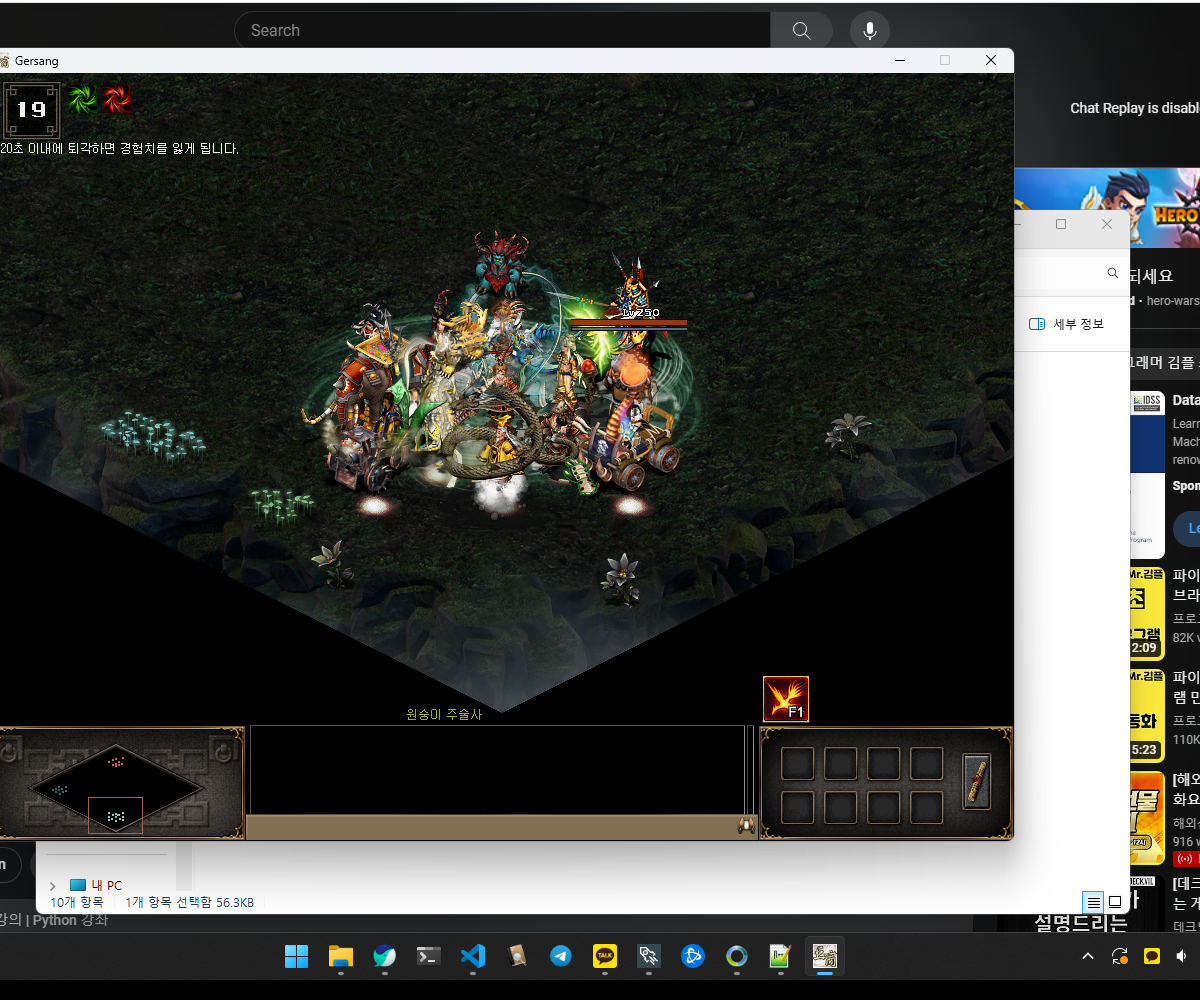
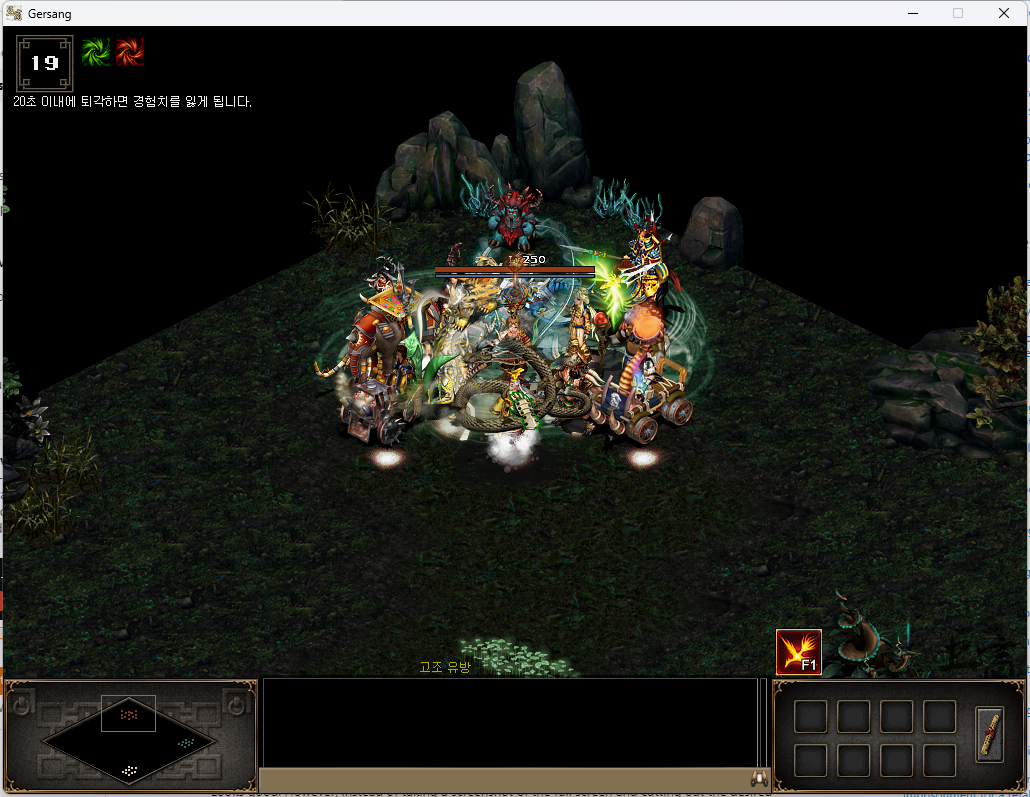
.

diff --git a/python_work/hunt.py b/python_work/hunt.py
@@ -68,6 +68,13 @@ def get_arrow_key():
     print("9_2 None")
 
   try:
+    button7location = pag.locateCenterOnScreen('python_work/img/dosa_sim_9_3.png', confidence=.93, grayscale=True)
+    print(f"9_3 : {button7location}")
+    return Key.right
+  except pag.ImageNotFoundException:
+    print("9_3 None")
+
+  try:
     button7location = pag.locateCenterOnScreen('python_work/img/dosa_sim_12.png', confidence=.93, grayscale=True)
     print(f"12 : {button7location}")
     return Key.down
@@ -80,6 +87,13 @@ def get_arrow_key():
     return Key.down
   except pag.ImageNotFoundException:
     print("12_2 None")
+
+  try:
+    button7location = pag.locateCenterOnScreen('python_work/img/dosa_sim_12_3.png', confidence=.93, grayscale=True)
+    print(f"12_3 : {button7location}")
+    return Key.down
+  except pag.ImageNotFoundException:
+    print("12_3 None")
 
   return None
 
@@ -105,15 +119,13 @@ def on_key_press(event):
 
   # q(허영): 8r  3r  2-rc  5-rc  6-rc  4-rc  `
   elif event.name == 'q':
-    pag.screenshot('python_work/1.png', region=(400,100, 1200, 1000))
+    pag.moveTo(game_window.left + game_window.width/2, game_window.top + game_window.height/2)
+    pag.screenshot('python_work/1.png', region=(game_window.left, game_window.top, game_window.width, game_window.height))
 
     arrow=get_arrow_key()
     kb.press(arrow)
-    time.sleep(.75)
+    time.sleep(.77)
     kb.release(arrow)
-
-    pag.moveTo(game_window.left + game_window.width/2, game_window.top + game_window.height/2)
-
 
     pressAndRelease('8')
     pressAndRelease('r')
